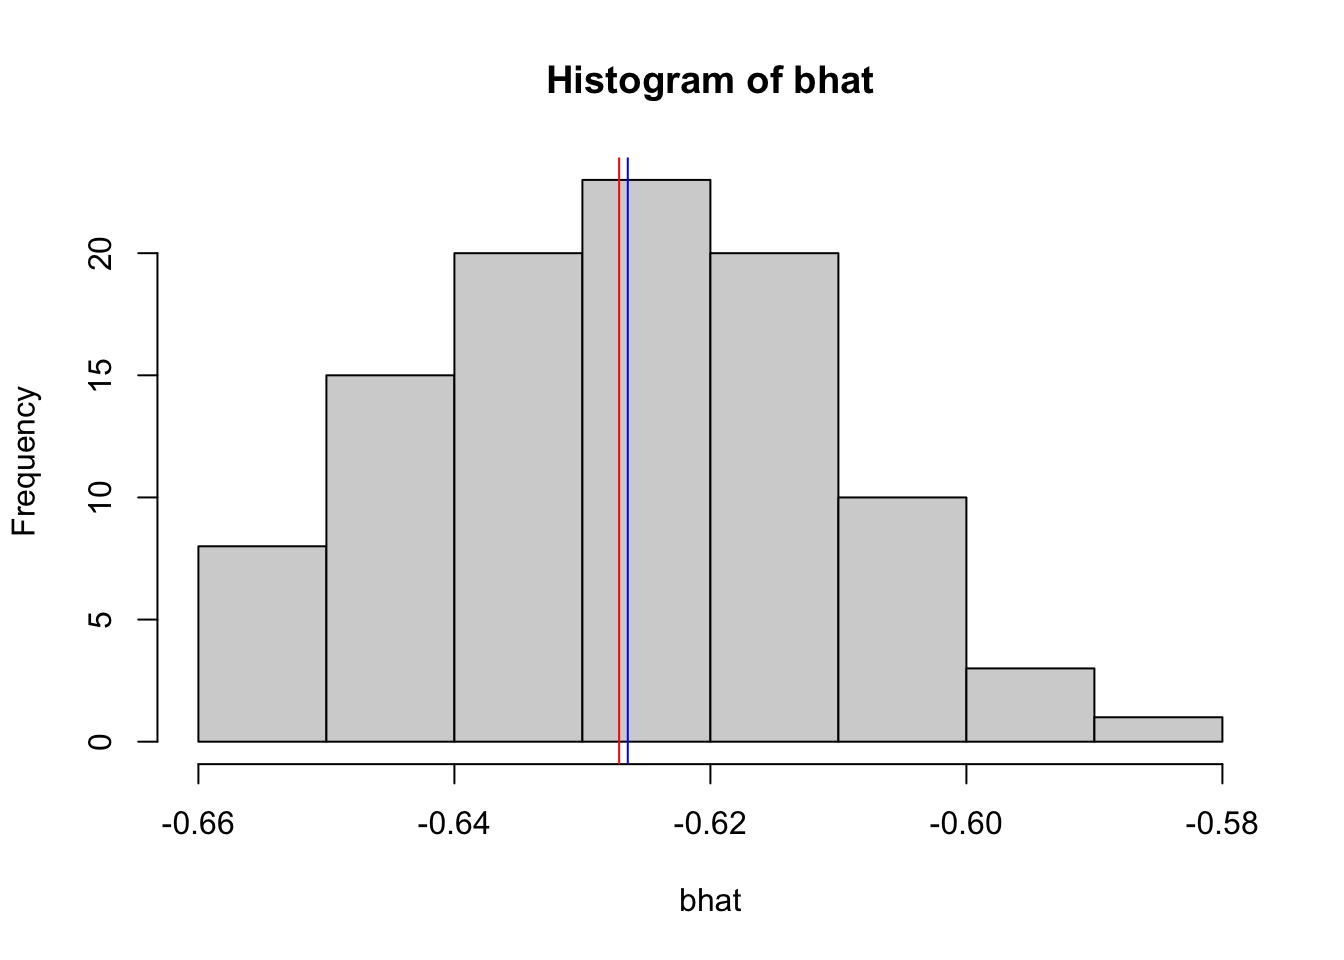
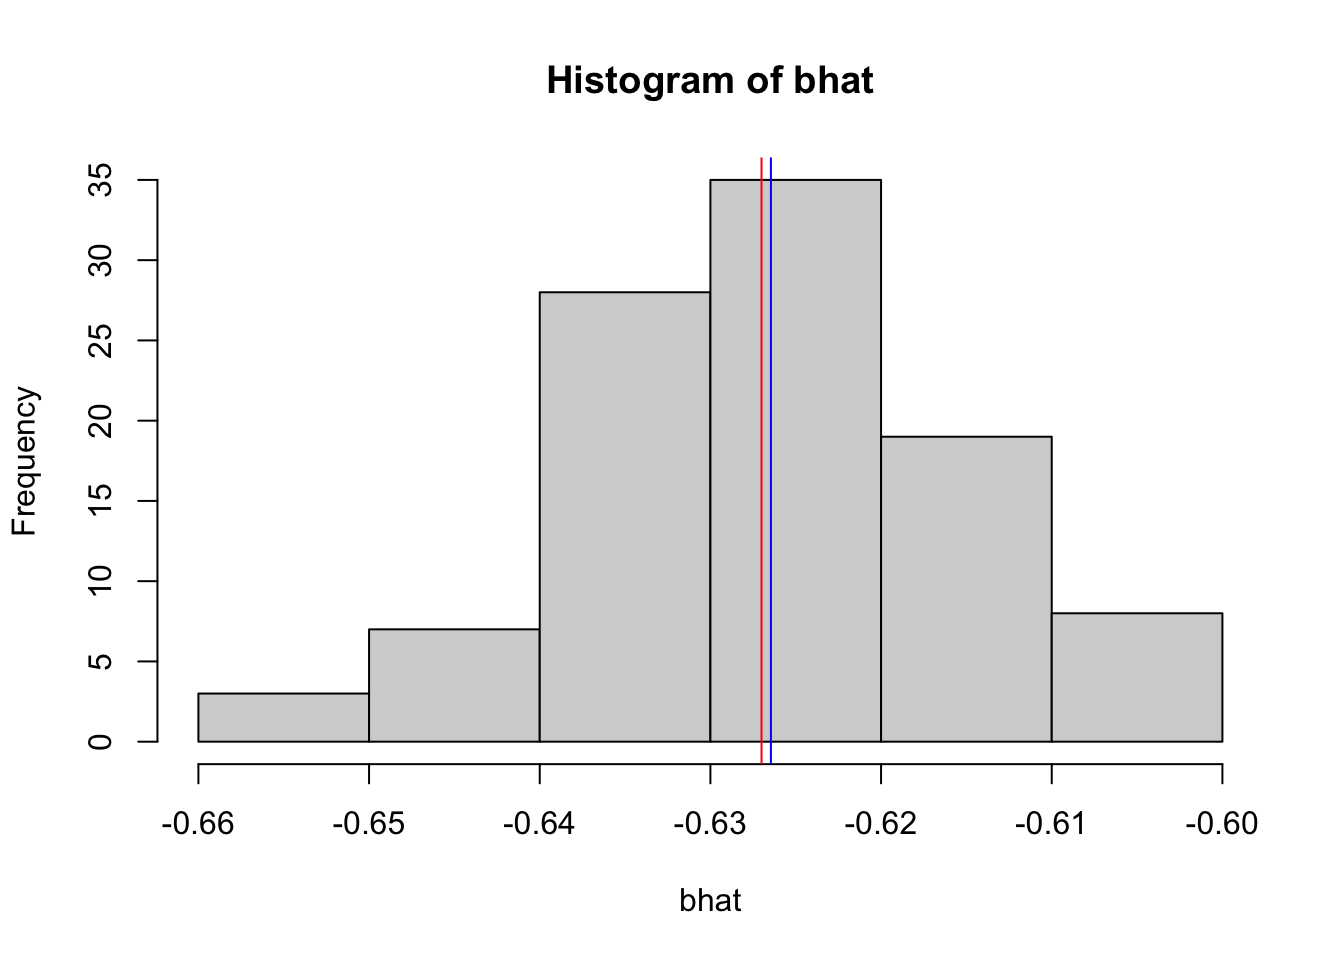
Build site.

diff --git a/docs/vi_exponential.html b/docs/vi_exponential.html
@@ -475,16 +475,16 @@ This reproducible <a href="http://rmarkdown.rstudio.com">R Markdown</a> analysis
 <div class="panel panel-default">
 <div class="panel-heading">
 <p class="panel-title">
-<a data-toggle="collapse" data-parent="#workflowr-checks" href="#strongRepositoryversionstrongahrefhttpsgithubcomyunqiyang0215survivalsusietree5fdca5398e5caa455be0d4ef6ff8e0c9054d0005targetblank5fdca53a"> <span class="glyphicon glyphicon-ok text-success" aria-hidden="true"></span> <strong>Repository version:</strong> <a href="https://github.com/yunqiyang0215/survival-susie/tree/5fdca5398e5caa455be0d4ef6ff8e0c9054d0005" target="_blank">5fdca53</a> </a>
+<a data-toggle="collapse" data-parent="#workflowr-checks" href="#strongRepositoryversionstrongahrefhttpsgithubcomyunqiyang0215survivalsusietree7a1d935c604a0e1fc7ac176fa47d1eee1974ff72targetblank7a1d935a"> <span class="glyphicon glyphicon-ok text-success" aria-hidden="true"></span> <strong>Repository version:</strong> <a href="https://github.com/yunqiyang0215/survival-susie/tree/7a1d935c604a0e1fc7ac176fa47d1eee1974ff72" target="_blank">7a1d935</a> </a>
 </p>
 </div>
[2 lines of base64/hex data omitted]
 <div class="panel-body">
 <p>
 Great! You are using Git for version control. Tracking code development and connecting the code version to the results is critical for reproducibility.
 </p>
 <p>
-The results in this page were generated with repository version <a href="https://github.com/yunqiyang0215/survival-susie/tree/5fdca5398e5caa455be0d4ef6ff8e0c9054d0005" target="_blank">5fdca53</a>. See the <em>Past versions</em> tab to see a history of the changes made to the R Markdown and HTML files.
+The results in this page were generated with repository version <a href="https://github.com/yunqiyang0215/survival-susie/tree/7a1d935c604a0e1fc7ac176fa47d1eee1974ff72" target="_blank">7a1d935</a>. See the <em>Past versions</em> tab to see a history of the changes made to the R Markdown and HTML files.
 </p>
 <p>
 Note that you need to be careful to ensure that all relevant files for the analysis have been committed to Git prior to generating the results (you can use <code>wflow_publish</code> or <code>wflow_git_commit</code>). workflowr only checks the R Markdown file, but you know if there are other scripts or data files that it depends on. Below is the status of the Git repository when the results were generated:
@@ -548,6 +548,40 @@ Message
 </tr>
 </thead>
 <tbody>
+<tr>
+<td>
+Rmd
+</td>
+<td>
+<a href="https://github.com/yunqiyang0215/survival-susie/blob/7a1d935c604a0e1fc7ac176fa47d1eee1974ff72/analysis/vi_exponential.Rmd" target="_blank">7a1d935</a>
+</td>
+<td>
+yunqiyang0215
+</td>
+<td>
+2023-03-28
+</td>
+<td>
+wflow_publish("analysis/vi_exponential.Rmd")
+</td>
+</tr>
+<tr>
+<td>
+html
+</td>
+<td>
+<a href="https://rawcdn.githack.com/yunqiyang0215/survival-susie/d28113a4690f99efae791f17d129f26841c9add8/docs/vi_exponential.html" target="_blank">d28113a</a>
+</td>
+<td>
+yunqiyang0215
+</td>
+<td>
+2023-03-28
+</td>
+<td>
+Build site.
+</td>
+</tr>
 <tr>
 <td>
 Rmd
@@ -970,7 +1004,7 @@ t_i=\log(1-u_i)/(-h_0\exp\{bx_i\})
 \end{split}
 \]</span> Check if the data simulation makes sense</p>
 <pre class="r"><code>set.seed(1)
-n = 5000
+n = 1e4
 censoring_lvl = 0
 s2 = 1 #prior variance of b
 h0 = 2
@@ -1047,45 +1081,45 @@ yunqiyang0215
 <h3>3. Run variational approximation</h3>
 <pre class="r"><code># change parameter init vals
 # the first param is m, the second is v2.
-lower = c(-100, 1e-10)
+lower = c(-100, 1e-12)
 upper = c(100, 100)
 res1 &lt;- update_q(x, y, d, h0 = 2, m = 1, v2 = 1, s2 = 1, maxiter = 100, tol = 0.1, lower, upper)
 head(res1)</code></pre>
 <pre><code>          elbo       h0          m           v2        s2
-[1,] -4558.722 2.017347 -0.6182987 0.0006820978 0.3829754
-[2,] -4558.585 2.025874 -0.6225252 0.0006812661 0.3882189
-[3,] -4558.552 2.030141 -0.6246409 0.0006811777 0.3908574
-[4,] -4558.543 2.032270 -0.6256963 0.0006811303 0.3921770
-[5,] -4558.541 2.033330 -0.6262220 0.0006811059 0.3928351
-[6,] -4558.540 2.033858 -0.6264836 0.0006810935 0.3931628</code></pre>
+[1,] -9372.888 1.999090 -0.6362026 4.352175e-05 0.4047972
+[2,] -9372.887 1.998548 -0.6359282 4.339616e-05 0.4044481
+[3,] -9372.887 1.998275 -0.6357907 4.366658e-05 0.4042734
+[4,] -9372.886 1.998138 -0.6357215 4.379216e-05 0.4041856
+[5,] -9372.886 1.998069 -0.6356867 4.385257e-05 0.4041414
+[6,] -9372.886 1.998035 -0.6356692 4.388225e-05 0.4041192</code></pre>
 <pre class="r"><code>tail(res1)</code></pre>
-<pre><code>           elbo      h0          m           v2        s2
- [95,] -4558.54 2.03438 -0.6267426 0.0006810812 0.3934873
- [96,] -4558.54 2.03438 -0.6267426 0.0006810812 0.3934873
- [97,] -4558.54 2.03438 -0.6267426 0.0006810812 0.3934873
- [98,] -4558.54 2.03438 -0.6267426 0.0006810812 0.3934873
- [99,] -4558.54 2.03438 -0.6267426 0.0006810812 0.3934873
-[100,] -4558.54 2.03438 -0.6267426 0.0006810812 0.3934873</code></pre>
+<pre><code>            elbo       h0          m           v2        s2
+ [95,] -9372.886 1.997999 -0.6356515 4.391179e-05 0.4040968
+ [96,] -9372.886 1.997999 -0.6356515 4.391179e-05 0.4040968
+ [97,] -9372.886 1.997999 -0.6356515 4.391179e-05 0.4040968
+ [98,] -9372.886 1.997999 -0.6356515 4.391179e-05 0.4040968
+ [99,] -9372.886 1.997999 -0.6356515 4.391179e-05 0.4040968
+[100,] -9372.886 1.997999 -0.6356515 4.391179e-05 0.4040968</code></pre>
 <pre class="r"><code># change parameter init vals
 lower = c(-100, 1e-8)
 upper = c(100, 100)
-res2 &lt;- update_q(x[1:5], y[1:5], d[1:5], h0 = 10, m = 1, v2 = 1, s2 = 50, maxiter = 50, tol = 0.1, lower, upper)
+res2 &lt;- update_q(x[1:20], y[1:20], d[1:20], h0 = 10, m = 1, v2 = 1, s2 = 50, maxiter = 50, tol = 0.1, lower, upper)
 head(res2)</code></pre>
-<pre><code>          elbo        h0         m        v2       s2
-[1,] -2.909458 10.196335 -1.940609 0.2009392 3.966904
-[2,] -2.881298  9.653309 -1.855898 0.1736959 3.618053
-[3,] -2.869544  9.268721 -1.805539 0.1713413 3.431312
-[4,] -2.863381  8.997809 -1.769624 0.1699347 3.301505
-[5,] -2.860053  8.802913 -1.743433 0.1688906 3.208448
-[6,] -2.858216  8.660452 -1.724085 0.1681052 3.140574</code></pre>
+<pre><code>          elbo       h0          m         v2         s2
+[1,] -32.02353 2.745566 -1.1293811 0.01920109 1.29470276
+[2,] -22.49032 1.890989 -0.5078325 0.01618969 0.27408359
+[3,] -21.13984 1.584212 -0.3338865 0.01435309 0.12583326
+[4,] -20.71690 1.431208 -0.2482781 0.01292595 0.07456798
+[5,] -20.52988 1.339472 -0.1962968 0.01173011 0.05026253
+[6,] -20.42723 1.277755 -0.1606985 0.01066430 0.03648832</code></pre>
 <pre class="r"><code>tail(res2)</code></pre>
-<pre><code>           elbo       h0         m       v2       s2
-[45,] -2.855817 8.231792 -1.664758 0.165625 2.937046
-[46,] -2.855817 8.231789 -1.664758 0.165625 2.937044
-[47,] -2.855817 8.231787 -1.664758 0.165625 2.937043
-[48,] -2.855817 8.231786 -1.664758 0.165625 2.937043
-[49,] -2.855817 8.231784 -1.664757 0.165625 2.937042
-[50,] -2.855817 8.231783 -1.664757 0.165625 2.937042</code></pre>
+<pre><code>           elbo       h0           m          v2          s2
+[45,] -20.10401 1.040752 -0.01370863 0.002074081 0.002262007
+[46,] -20.10400 1.040746 -0.01370442 0.002073544 0.002261355
+[47,] -20.10399 1.040741 -0.01370087 0.002073036 0.002260750
+[48,] -20.10398 1.040737 -0.01369771 0.002072525 0.002260152
+[49,] -20.10396 1.040733 -0.01369473 0.002071974 0.002259519
+[50,] -20.10395 1.040729 -0.01369176 0.002071329 0.002258793</code></pre>
 <br>
 <p>
 <button type="button" class="btn btn-default btn-workflowr btn-workflowr-sessioninfo" data-toggle="collapse" data-target="#workflowr-sessioninfo" style="display: block;">
